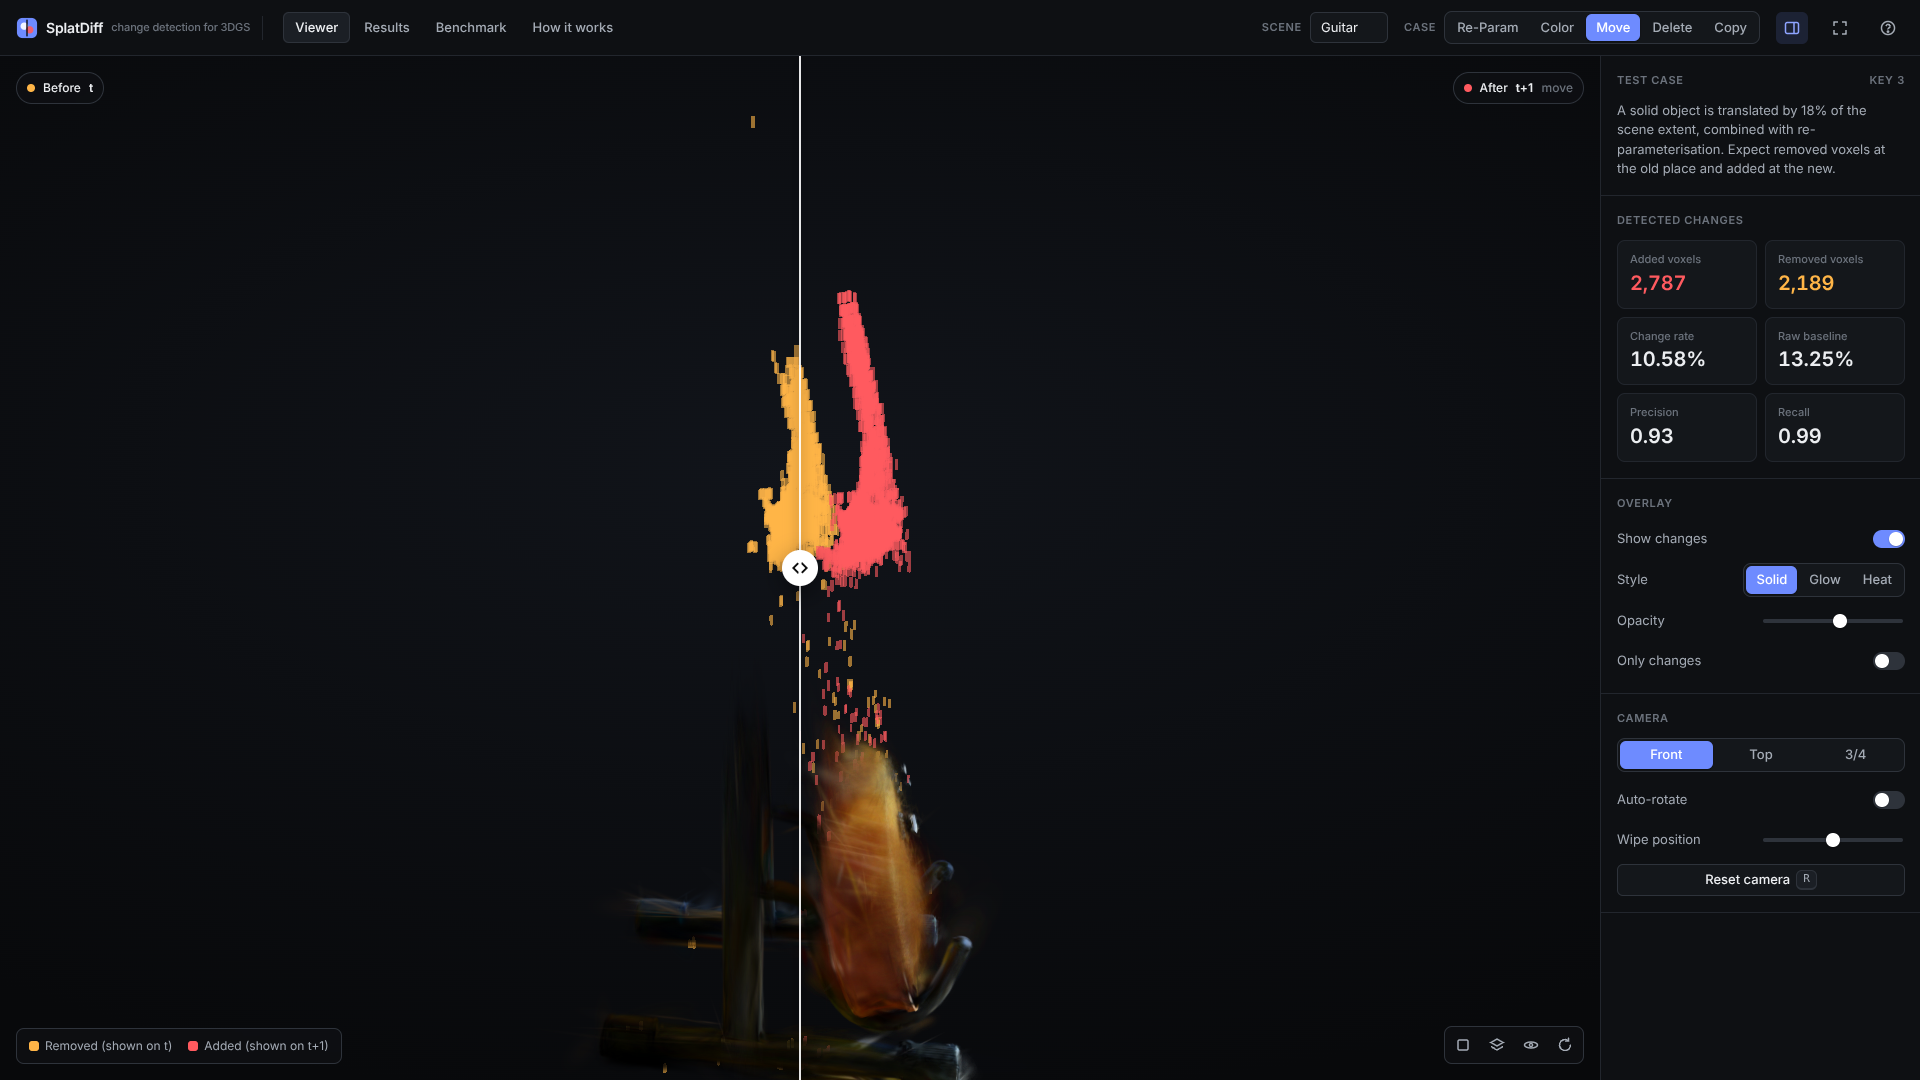
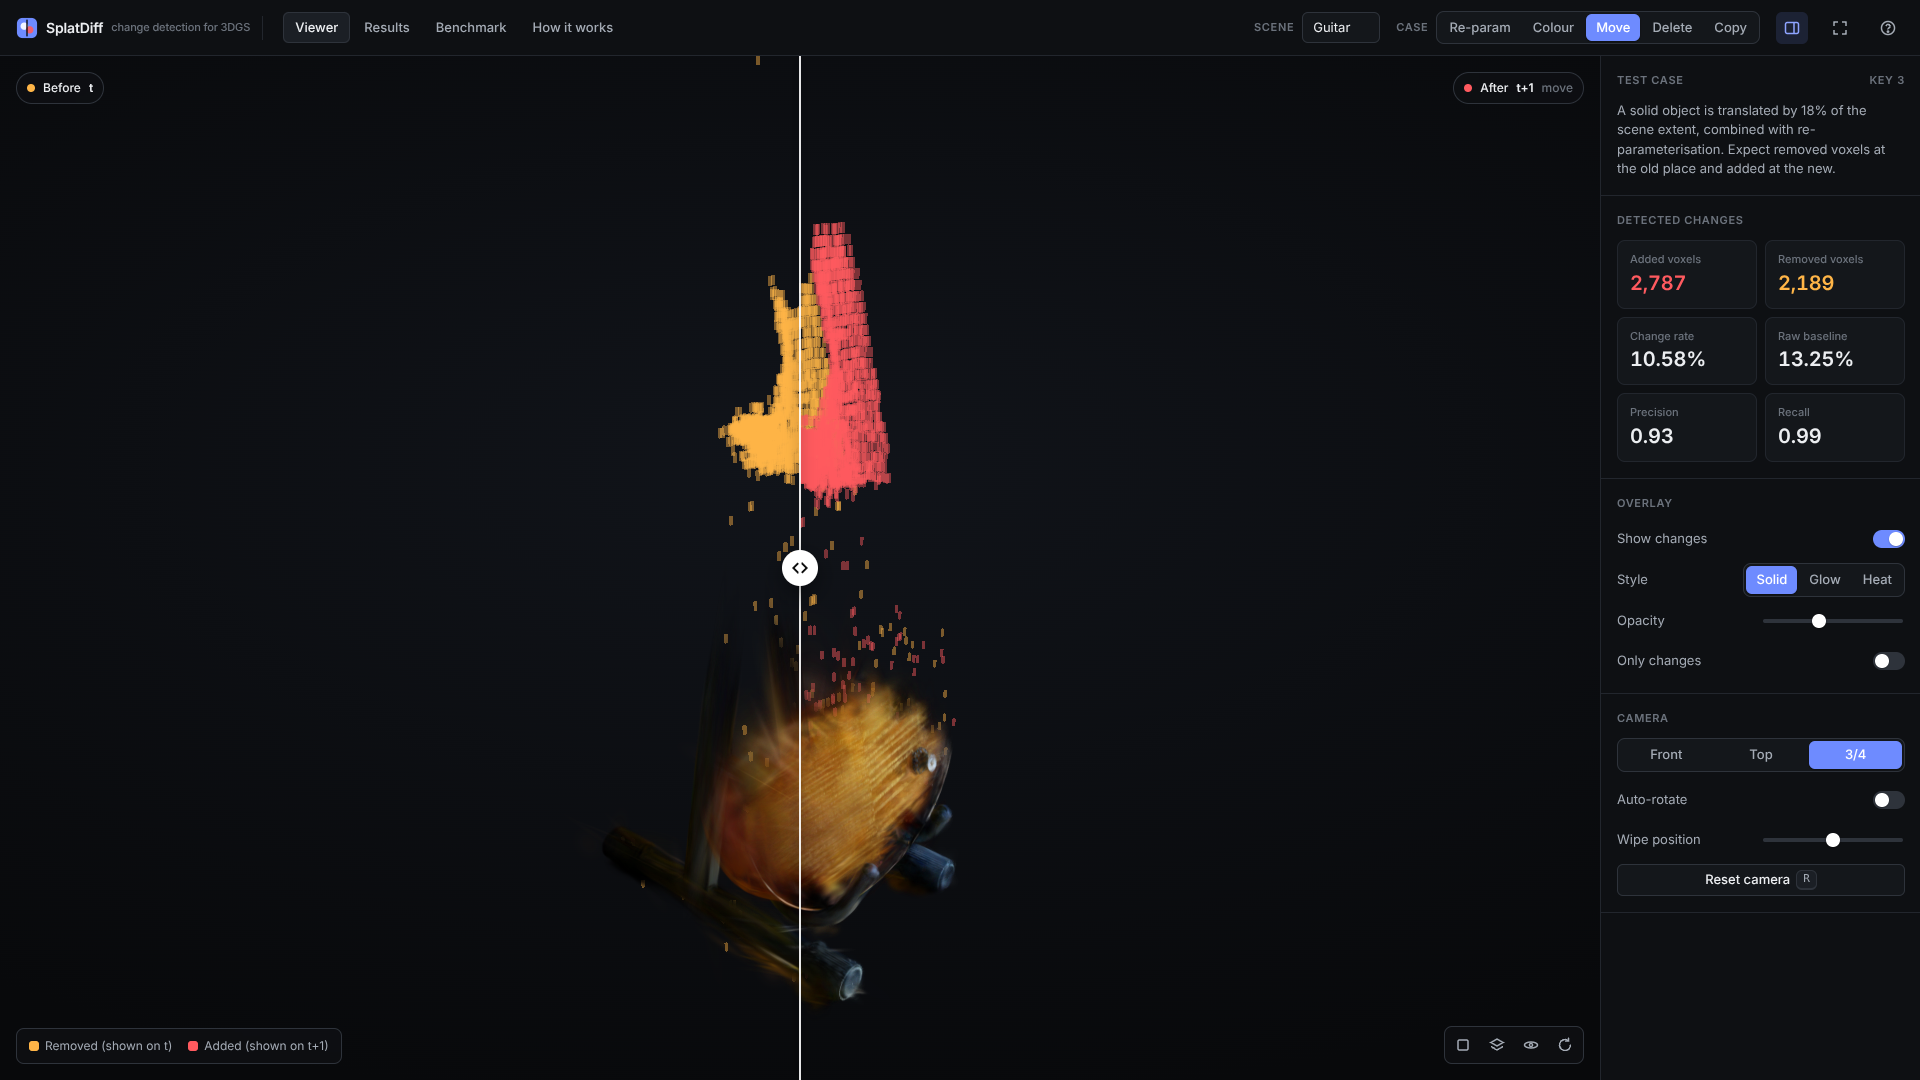
UI polish run 2: per-scene camera framing, surface-only overlay, chart value labels and log axis
Claude-Session: https://claude.ai/code/session_01URw7tDQs6vmwb8nhaLwkrr

diff --git a/web/js/app.js b/web/js/app.js
@@ -15,6 +15,8 @@ const CASE_INFO = {
   delete: 'Gaussians around a central object are deleted, combined with re-parameterisation. Expect removed voxels only.',
   copy: 'An object is duplicated to a new place, combined with re-parameterisation. Expect added voxels only.',
 };
+// Per-scene framing: default preset, vertical offset (fraction of focus radius, +y is down) and distance factor.
+const SCENE_CAM = { guitar: { cam: 'orbit', dy: 0.2, dist: 0.85 }, biker: { cam: 'front', dy: 0.22, dist: 1.2 } };
 const CAM_DIRS = { front: [0.25, -0.35, -1], top: [0.02, -1, -0.12], orbit: [1, -0.55, -0.9] };
 
 const state = { manifest: null, bench: null, scene: null, caseId: 'move', wipe: 0.5, overlay: true, style: 'solid',
@@ -54,7 +56,14 @@ function heatColors(voxels) {
     return lo.clone().lerp(hi, Math.min(1, (n - 1) / 20));
   });
 }
+function surfaceVoxels(voxels) {
+  const key = (i, j, k) => (i * 1024 + j) * 1024 + k;
+  const set = new Set(voxels.map((v) => key(v[0], v[1], v[2])));
+  const nb = [[1, 0, 0], [-1, 0, 0], [0, 1, 0], [0, -1, 0], [0, 0, 1], [0, 0, -1]];
+  return voxels.filter(([i, j, k]) => nb.some(([a, b, c]) => !set.has(key(i + a, j + b, k + c))));
+}
 function makeBoxes(voxels, g, color) {
+  voxels = surfaceVoxels(voxels);
   const geo = new THREE.BoxGeometry(g.h[0] * 0.92, g.h[1] * 0.92, g.h[2] * 0.92);
   const mat = new THREE.MeshBasicMaterial({ color, transparent: true, opacity: state.opacity, depthWrite: false });
   const mesh = new THREE.InstancedMesh(geo, mat, Math.max(voxels.length, 1));
@@ -73,7 +82,7 @@ function applyOverlay() {
     if (!b) continue;
     b.visible = state.overlay;
     const m = b.material;
-    m.opacity = state.style === 'glow' ? Math.min(1, state.opacity * 0.7) : state.opacity;
+    m.opacity = state.style === 'glow' ? Math.min(1, state.opacity * 0.35) : state.opacity;
     m.blending = state.style === 'glow' ? THREE.AdditiveBlending : THREE.NormalBlending;
     if (state.style === 'heat') { m.color.set(0xffffff); b.userData.heat.forEach((c, i) => b.setColorAt(i, c)); }
     else { m.color.copy(b.userData.base); if (b.instanceColor) b.userData.heat.forEach((_, i) => b.setColorAt(i, new THREE.Color(0xffffff))); }
@@ -88,7 +97,9 @@ function applyOverlay() {
 
 // ---------- camera ----------
 function camPose(name) {
-  const c = focus.center, r = focus.radius, d = (1.3 * r / Math.tan((24 * Math.PI) / 180)) * (name === 'top' ? 1.1 : 1);
+  const o = SCENE_CAM[state.scene] || { dy: 0, dist: 1 }, r = focus.radius;
+  const c = [focus.center[0], focus.center[1] + (name === 'top' ? 0 : o.dy * r), focus.center[2]];
+  const d = o.dist * (1.3 * r / Math.tan((24 * Math.PI) / 180)) * (name === 'top' ? 1.1 : 1);
   const dir = CAM_DIRS[name], len = Math.hypot(...dir);
   return { lookAt: c, pos: c.map((v, k) => v + (dir[k] / len) * d) };
 }
@@ -251,15 +262,32 @@ function chartDefaults() {
   Chart.defaults.plugins.tooltip.padding = 10;
   Chart.defaults.animation.duration = 700;
 }
-function barChart(id, labels, datasets, { yFmt = (v) => v, max } = {}) {
+// Draws each bar's value above it, so small bars (CPU speedups, SplatDiff false-change) stay readable.
+const valueLabels = {
+  id: 'valueLabels',
+  afterDatasetsDraw(chart, _a, opts) {
+    if (!opts || !opts.fmt) return;
+    const { ctx } = chart;
+    ctx.save();
+    ctx.font = '500 11px Inter, sans-serif'; ctx.fillStyle = '#9aa3b2'; ctx.textAlign = 'center'; ctx.textBaseline = 'bottom';
+    chart.data.datasets.forEach((d, i) => chart.getDatasetMeta(i).data.forEach((bar, j) => {
+      const v = d.data[j]; if (v == null || Number.isNaN(v)) return;
+      ctx.fillText(opts.fmt(v), bar.x, bar.y - 4);
+    }));
+    ctx.restore();
+  },
+};
+function barChart(id, labels, datasets, { yFmt = (v) => v, max, log = false, labelFmt = null } = {}) {
   if (!window.Chart) return;
   if (charts[id]) charts[id].destroy();
   charts[id] = new Chart($(id), {
     type: 'bar',
+    plugins: [valueLabels],
     data: { labels, datasets: datasets.map((d) => ({ borderRadius: 4, maxBarThickness: 36, categoryPercentage: 0.7, barPercentage: 0.85, ...d })) },
-    options: { responsive: true, maintainAspectRatio: false,
-      plugins: { legend: { display: datasets.length > 1, position: 'top', align: 'end' }, tooltip: { callbacks: { label: (c) => ` ${c.dataset.label}: ${yFmt(c.parsed.y)}` } } },
-      scales: { x: { grid: { display: false } }, y: { beginAtZero: true, max, ticks: { callback: yFmt }, grid: { color: '#1a1d22' } } } },
+    options: { responsive: true, maintainAspectRatio: false, layout: { padding: { top: 18 } },
+      plugins: { valueLabels: { fmt: labelFmt }, legend: { display: datasets.length > 1, position: 'bottom', align: 'center', labels: { padding: 16 } }, tooltip: { callbacks: { label: (c) => ` ${c.dataset.label}: ${yFmt(c.parsed.y)}` } } },
+      scales: { x: { grid: { display: false } }, y: log ? { type: 'logarithmic', ticks: { callback: (v) => ([1, 10, 100, 1000, 10000].includes(+v) ? yFmt(v) : '') }, grid: { color: '#1a1d22' } }
+        : { beginAtZero: true, max, ticks: { callback: yFmt }, grid: { color: '#1a1d22' } } } },
   });
 }
 
@@ -286,11 +314,11 @@ function buildResults() {
   countUp($('cd3'), rec, { dec: 2 });
   const lbl = [];
   const ours = [], raw = [];
-  ids.forEach((s) => ['reparam', 'color'].forEach((c) => { lbl.push(`${s} ${c === 'reparam' ? 're-param' : c}`); ours.push(m(s, c).change_rate * 100); raw.push(m(s, c).raw_change_rate * 100); }));
-  barChart('chFalse', lbl, [{ label: 'SplatDiff', data: ours, backgroundColor: COL.accent }, { label: 'Raw centres', data: raw, backgroundColor: COL.raw }], { yFmt: (v) => `${(+v).toFixed(1)}%` });
+  ids.forEach((s) => ['reparam', 'color'].forEach((c) => { lbl.push([s, c === 'reparam' ? 're-param' : 'colour']); ours.push(m(s, c).change_rate * 100); raw.push(m(s, c).raw_change_rate * 100); }));
+  barChart('chFalse', lbl, [{ label: 'SplatDiff', data: ours, backgroundColor: COL.accent }, { label: 'Raw centres', data: raw, backgroundColor: COL.raw }], { yFmt: (v) => `${(+v).toFixed(1)}%`, labelFmt: (v) => `${v.toFixed(2)}%` });
   const l2 = [], p1 = [], p2 = [];
-  ids.forEach((s) => edits.forEach((c) => { l2.push(`${s} ${c}`); p1.push(m(s, c).precision); p2.push(m(s, c).raw_precision); }));
-  barChart('chPrec', l2, [{ label: 'SplatDiff', data: p1, backgroundColor: COL.accent }, { label: 'Raw centres', data: p2, backgroundColor: COL.raw }], { yFmt: (v) => (+v).toFixed(2), max: 1 });
+  ids.forEach((s) => edits.forEach((c) => { l2.push([s, c]); p1.push(m(s, c).precision); p2.push(m(s, c).raw_precision); }));
+  barChart('chPrec', l2, [{ label: 'SplatDiff', data: p1, backgroundColor: COL.accent }, { label: 'Raw centres', data: p2, backgroundColor: COL.raw }], { yFmt: (v) => (+v).toFixed(1), max: 1, labelFmt: (v) => v.toFixed(2) });
   const rows = [];
   S.forEach((s) => s.cases.forEach((c) => { const x = c.metrics; rows.push(`<tr><td>${s.id}</td><td>${c.id}</td><td>${fmt(c.added)}</td><td>${fmt(c.removed)}</td><td>${pct(x.change_rate, 2)}</td><td>${pct(x.raw_change_rate, 2)}</td><td>${x.precision != null ? x.precision.toFixed(2) : '-'}</td><td>${x.recall != null ? x.recall.toFixed(2) : '-'}</td></tr>`); }));
   $('resTable').innerHTML = `<thead><tr><th>Scene</th><th>Case</th><th>Added</th><th>Removed</th><th>Change rate</th><th>Raw baseline</th><th>Precision</th><th>Recall</th></tr></thead><tbody>${rows.join('')}</tbody>`;
@@ -322,8 +350,8 @@ function buildBenchmark() {
   countUp($('bc2'), best.speedup, { dec: 1, suffix: '×' });
   countUp($('bc3'), (serial.t_splat / serial.total) * 100, { dec: 0, suffix: '%' });
   const labels = runs.map(name);
-  barChart('chTime', labels, [{ label: 'Total (ms)', data: runs.map((r) => r.total * 1000), backgroundColor: runs.map(color) }], { yFmt: (v) => `${Math.round(v)} ms` });
-  barChart('chSpeed', labels, [{ label: 'Speedup', data: runs.map((r) => r.speedup), backgroundColor: runs.map(color) }], { yFmt: (v) => `${(+v).toFixed(1)}×` });
+  barChart('chTime', labels, [{ label: 'Total (ms)', data: runs.map((r) => r.total * 1000), backgroundColor: runs.map(color) }], { yFmt: (v) => `${Math.round(v)} ms`, log: true, labelFmt: (v) => (v >= 100 ? `${Math.round(v)} ms` : `${v.toFixed(1)} ms`) });
+  barChart('chSpeed', labels, [{ label: 'Speedup', data: runs.map((r) => r.speedup), backgroundColor: runs.map(color) }], { yFmt: (v) => `${(+v).toFixed(0)}×`, labelFmt: (v) => `${v.toFixed(1)}×` });
   const ms = (x) => (x * 1000).toFixed(1);
   $('benchTable').innerHTML = `<thead><tr><th>Implementation</th><th>Grid</th><th>Splat (ms)</th><th>Compare (ms)</th><th>Reduce (ms)</th><th>Total (ms)</th><th>Speedup</th></tr></thead><tbody>${
     b.runs.map((r) => `<tr><td>${name(r)}</td><td>${r.n}³</td><td>${ms(r.t_splat)}</td><td>${ms(r.t_compare)}</td><td>${ms(r.t_reduce)}</td><td>${ms(r.total)}</td><td>${r.speedup.toFixed(2)}×</td></tr>`).join('')}</tbody>`;
@@ -352,7 +380,7 @@ function buildDiagram() {
 // ---------- boot ----------
 function bind() {
   $$('#nav button').forEach((b) => (b.onclick = () => showPage(b.dataset.page)));
-  $('scene').onchange = (e) => { state.scene = e.target.value; if (!currentCase()) state.caseId = currentScene().cases[0].id; renderCases(); load(); };
+  $('scene').onchange = (e) => { state.scene = e.target.value; state.cam = SCENE_CAM[state.scene]?.cam || 'front'; if (!currentCase()) state.caseId = currentScene().cases[0].id; renderCases(); load(); };
   $('overlay').onchange = (e) => { state.overlay = e.target.checked; applyOverlay(); };
   $('onlyChanges').onchange = (e) => { state.only = e.target.checked; applyOverlay(); };
   $('ovOpacity').oninput = (e) => { state.opacity = parseFloat(e.target.value); applyOverlay(); };
@@ -388,6 +416,8 @@ async function main() {
   const q = new URLSearchParams(location.search);
   state.scene = state.manifest.scenes.some((s) => s.id === q.get('scene')) ? q.get('scene') : state.manifest.scenes[0].id;
   if (currentScene().cases.some((c) => c.id === q.get('case'))) state.caseId = q.get('case');
+  state.cam = CAM_DIRS[q.get('cam')] ? q.get('cam') : SCENE_CAM[state.scene]?.cam || 'front';
+  if (q.get('style')) state.style = q.get('style');
   if (q.get('page')) showPage(q.get('page'));
   $('scene').innerHTML = state.manifest.scenes.map((s) => `<option value="${s.id}">${s.id}</option>`).join('');
   $('scene').value = state.scene;

diff --git a/PROGRESS.md b/PROGRESS.md
@@ -4,7 +4,7 @@ STATUS: IN PROGRESS
 
 ## Next task
 
-Task 8, UI polish run 2 (of at least two). See "UI polish run 2 to-do" in the 2026-10-31 log entry.
+Task 8, UI polish run 3. See "UI polish run 3 to-do" in the 2026-11-01 (run 3) log entry.
 
 ## Task checklist
 
@@ -15,7 +15,7 @@ Task 8, UI polish run 2 (of at least two). See "UI polish run 2 to-do" in the 20
 - [x] 5. CUDA kernels, NVRTC check, notebooks/colab_benchmark.ipynb (Colab run pending, see below)
 - [x] 6. Export change voxels and scenes for the viewer
 - [x] 7. Web viewer basics
-- [~] 8. UI polish (presentation quality, at least two runs): run 1 done 2026-10-31
+- [~] 8. UI polish (presentation quality, at least two runs): run 1 done 2026-10-31, run 2 done 2026-11-01
 - [ ] 9. One-click launcher (start.sh / start.bat) and README instructions
 - [ ] 10. Results figures for report and slides
 - [ ] 11. Final QA pass, set STATUS: COMPLETE
@@ -35,6 +35,48 @@ node scripts/screenshot.mjs out.png 1920 1080 "?scene=biker&case=move" [results|
 ```
 
 ## Log
+
+### 2026-11-01 (run 3, UI polish run 2)
+
+Push was denied again (403 from the git proxy: AakarshP26/SplatDIff is not in this scheduled
+task's authorised sources). Work is committed locally and delivered as splatdiff_2026-11-01.bundle.
+
+Done:
+- Rebuilt all generated data from a fresh clone (convert, prepare, kernels, pipeline, export_web);
+  numbers identical to earlier runs.
+- Camera framing: per-scene table SCENE_CAM in web/js/app.js (default preset, vertical offset
+  as a fraction of the focus radius, distance factor). Guitar now opens in the 3/4 view
+  (front view showed the guitar edge-on), biker in front view pulled back so the boots are inside
+  the frame. Both objects are centred vertically.
+- Overlay: only surface voxels are drawn (voxels with at least one empty 6-neighbour), so the
+  solid style no longer stacks dozens of transparent boxes into a blob. Glow opacity halved
+  (it saturated to white).
+- URL params ?cam=front|top|orbit and ?style=solid|glow|heat (for screenshots and demos).
+- Charts: value labels above every bar (inline Chart.js plugin), log y axis on the benchmark time
+  chart (CUDA bar was invisible on a linear axis), two-line category labels instead of rotated
+  ones, legends moved below the plot so they never collide with labels.
+
+Tests: screenshots at 1920x1080 and 1280x720 of viewer (guitar, biker, 3/4, glow), results and
+benchmark pages, no console errors. Saved: results/screenshots/ui_viewer_guitar_move_1920.png,
+ui_results_1920.png, ui_benchmark_1280.png.
+
+Observation: in some headless screenshots the previous nav tab still shows its background
+because the 150 ms CSS transition had not run when the frame was captured (computed style
+was still transparent on the new tab). Not seen in other shots; probably a swiftshader timing
+artefact, but check in a real browser.
+
+UI polish run 3 to-do:
+- Check in a real browser: tab highlight after switching, wipe drag, presets, auto-rotate.
+- Presentation mode and help popover screenshots at 1280x720; heat style; only-changes mode.
+- Delete and copy cases visually for both scenes (overlay readability, colours).
+- Results table: show "colour" not "color" in the case column; consider a scene grouping row.
+- Benchmark: add a 64/128/256 grid-size selector or a scaling line chart (data already in
+  results/benchmark.json for all three sizes).
+- Then move on to task 9 (start.sh / start.bat launcher).
+
+Action for Aanand: same as before. Add AakarshP26/SplatDIff to this scheduled task's GitHub
+sources, then push this run's bundle: `git pull /path/to/splatdiff_2026-11-01.bundle main &&
+git push origin main` inside a clone of the repo.
 
 ### 2026-11-01 (fix, interactive session)
 
